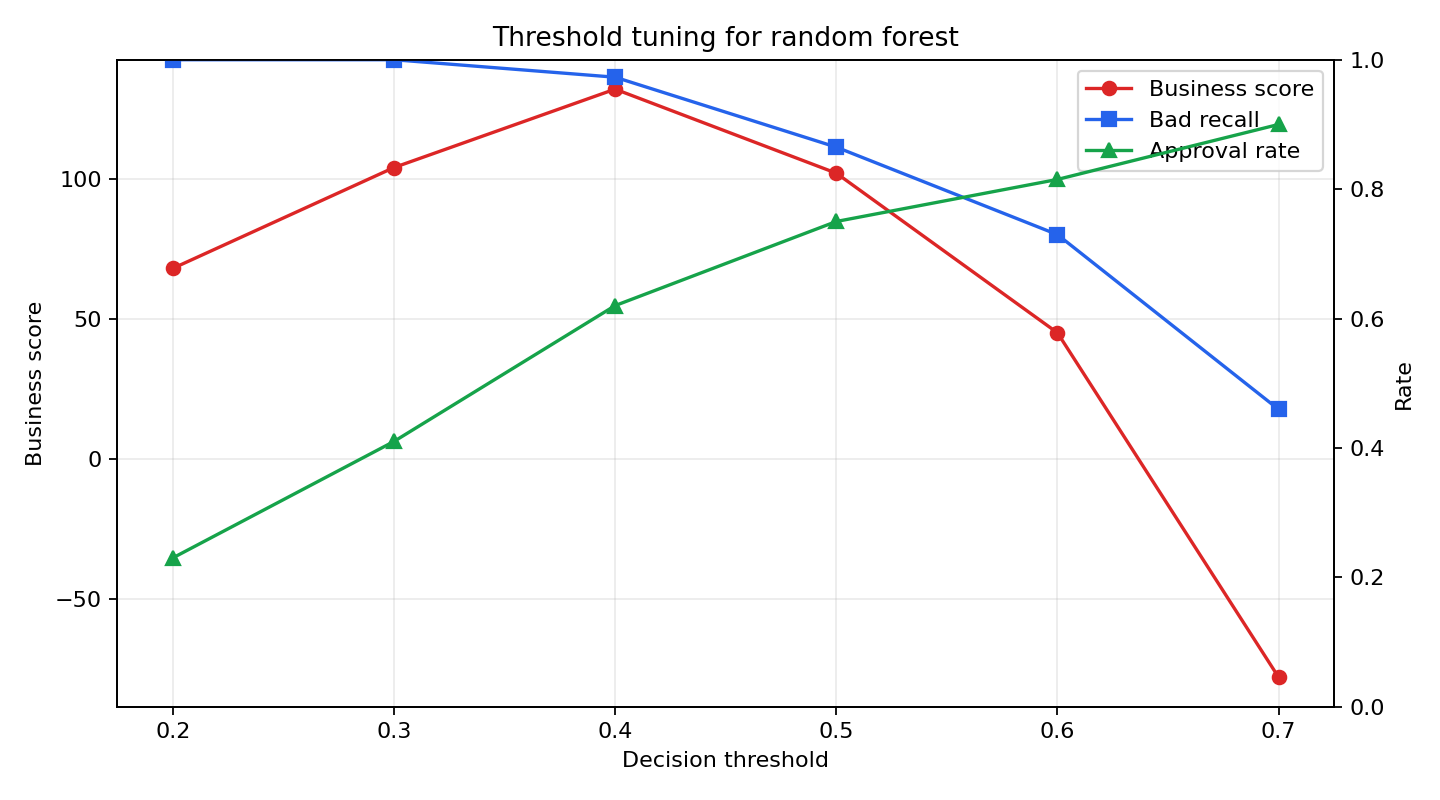
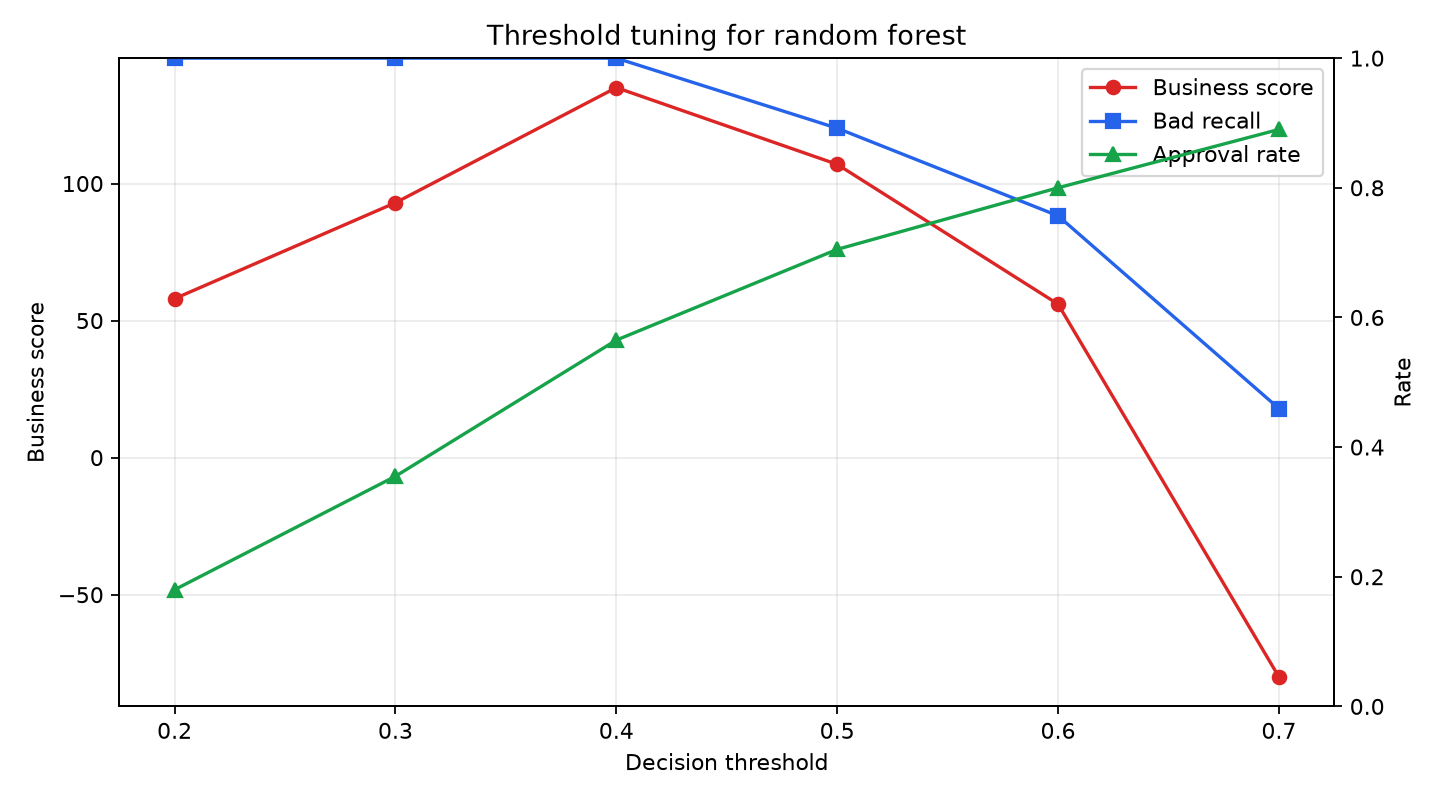
update

diff --git a/frontend/index.html b/frontend/index.html
@@ -1,9 +1,9 @@
 <!doctype html>
-<html lang="en">
+<html lang="vi">
   <head>
     <meta charset="utf-8" />
     <meta name="viewport" content="width=device-width, initial-scale=1" />
-    <title>Credit Scoring Demo</title>
+    <title>Demo Ch&#7845;m &#272;i&#7875;m T&#237;n D&#7909;ng</title>
     <style>
       body {
         margin: 0;
@@ -92,95 +92,126 @@
   </head>
   <body>
     <main class="wrap">
-      <h1>Credit Scoring Demo</h1>
-      <p class="muted">Estimate credit default risk and show a lending recommendation.</p>
+      <h1>Demo Ch&#7845;m &#272;i&#7875;m T&#237;n D&#7909;ng</h1>
+      <p class="muted">&#431;&#7899;c t&#237;nh r&#7911;i ro v&#7905; n&#7907; v&#224; &#273;&#432;a ra khuy&#7871;n ngh&#7883; cho h&#7891; s&#417; vay.</p>
 
       <div class="grid">
         <section>
-          <h2>Application</h2>
+          <h2>Th&#244;ng tin h&#7891; s&#417; vay</h2>
           <form id="form">
-            <label>Checking account
-              <select name="Tài khoản vãng lai (USD)">
-                <option>Không có</option>
+            <label>T&#224;i kho&#7843;n v&#227;ng lai
+              <select name="checking_account">
+                <option>Kh&#244;ng c&#243;</option>
                 <option>&lt;0</option>
                 <option>0-120</option>
                 <option>&gt;120</option>
               </select>
             </label>
-            <label>Duration months
-              <input name="Thời hạn vay (tháng)" type="number" min="1" max="120" value="24" />
+            <label>Th&#7901;i h&#7841;n vay (th&#225;ng)
+              <input name="duration_months" type="number" min="1" max="120" value="24" />
             </label>
-            <label>Credit history
-              <select name="Lịch sử tín dụng">
-                <option>Đang vay của NH khác</option>
-                <option>Đúng hạn tới hiện tại</option>
-                <option>Không có</option>
+            <label>L&#7883;ch s&#7917; t&#237;n d&#7909;ng
+              <select name="credit_history">
+                <option>&#272;ang vay c&#7911;a NH kh&#225;c</option>
+                <option>Kh&#244;ng c&#243;</option>
+                <option>&#272;&#250;ng h&#7841;n t&#7899;i hi&#7879;n t&#7841;i</option>
+                <option>N&#7907; qu&#225; h&#7841;n</option>
+                <option>Tr&#7843; &#273;&#250;ng h&#7841;n</option>
               </select>
             </label>
-            <label>Loan purpose
-              <select name="Mục đích vay">
+            <label>M&#7909;c &#273;&#237;ch vay
+              <select name="loan_purpose">
                 <option>Kinh doanh</option>
-                <option>Mua xe mới</option>
-                <option>Mua tbi âm thanh/hình ảnh</option>
+                <option>Mua tbi &#226;m thanh/h&#236;nh &#7843;nh</option>
+                <option>Mua xe m&#7899;i</option>
+                <option>S&#7917;a ch&#7919;a nh&#224; c&#7917;a</option>
+                <option>Mua n&#7897;i th&#7845;t</option>
+                <option>&#272;&#224;o t&#7841;o l&#7841;i</option>
+                <option>Mua &#273;&#7891; gia d&#7909;ng</option>
+                <option>Mua xe qua sd</option>
+                <option>Gi&#225;o d&#7909;c</option>
+                <option>Kh&#225;c</option>
               </select>
             </label>
-            <label>Savings account
-              <select name="Tài khoản tiết kiệm (USD)">
-                <option>Ít</option>
-                <option>Không có</option>
-                <option>Trung bình</option>
+            <label>T&#224;i kho&#7843;n ti&#7871;t ki&#7879;m
+              <select name="savings_account">
+                <option>&#205;t</option>
+                <option>Kh&#244;ng c&#243;</option>
+                <option>Trung b&#236;nh</option>
+                <option>Kh&#225;</option>
                 <option>Cao</option>
               </select>
             </label>
-            <label>Experience
-              <select name="Số năm kinh nghiệm">
-                <option>&lt;1 năm</option>
-                <option>1-3 năm</option>
-                <option>4-6 năm</option>
-                <option>&gt;6 năm</option>
+            <label>S&#7889; n&#259;m kinh nghi&#7879;m
+              <select name="experience_years">
+                <option>&lt;1 n&#259;m</option>
+                <option>1-3 n&#259;m</option>
+                <option>4-6 n&#259;m</option>
+                <option>&gt;= 7 n&#259;m</option>
+                <option>Th&#7845;t nghi&#7879;p</option>
               </select>
             </label>
-            <label>Gender
-              <select name="Giới tính">
+            <label>Gi&#7899;i t&#237;nh
+              <select name="gender">
                 <option>Nam</option>
-                <option>Nữ</option>
+                <option>N&#7919;</option>
               </select>
             </label>
-            <label>Age
-              <select name="Tuổi">
+            <label>Tu&#7893;i
+              <select name="age_group">
                 <option>18-35</option>
                 <option>36-45</option>
                 <option>46-60</option>
+                <option>&gt;60</option>
               </select>
             </label>
-            <label>Housing
-              <select name="Tình trạng nhà ở">
-                <option>Nhà sở hữu riêng</option>
-                <option>Nhà thuê</option>
+            <label>T&#236;nh tr&#7841;ng nh&#224; &#7903;
+              <select name="housing">
+                <option>Nh&#224; s&#7903; h&#7919;u ri&#234;ng</option>
+                <option>Nh&#224; thu&#234;</option>
+                <option>Nh&#224; &#7903; mi&#7877;n ph&#237;</option>
               </select>
             </label>
-            <label>Occupation
-              <select name="Nghề nghiệp">
-                <option>Chuyên môn, hành chính</option>
-                <option>Phổ thông, lâu dài</option>
+            <label>Ngh&#7873; nghi&#7879;p
+              <select name="occupation">
+                <option>Chuy&#234;n m&#244;n, h&#224;nh ch&#237;nh</option>
+                <option>Ph&#7893; th&#244;ng, l&#226;u d&#224;i</option>
+                <option>Ph&#7893; th&#244;ng, th&#7901;i v&#7909;</option>
+                <option>Qu&#7843;n l&#253;/T&#7921; kinh doanh/Chuy&#234;n m&#244;n cao</option>
               </select>
             </label>
-            <button type="submit">Predict Risk</button>
+            <button type="submit">D&#7921; &#273;o&#225;n r&#7911;i ro</button>
           </form>
         </section>
 
         <section>
-          <h2>Prediction</h2>
-          <div id="result" class="result muted">Train the model, then submit an application.</div>
+          <h2>K&#7871;t qu&#7843; d&#7921; &#273;o&#225;n</h2>
+          <div id="result" class="result muted">H&#227;y train model, sau &#273;&#243; nh&#7853;p h&#7891; s&#417; vay &#273;&#7875; d&#7921; &#273;o&#225;n.</div>
         </section>
       </div>
     </main>
 
     <script>
+      const fieldNames = {
+        checking_account: "T\u00e0i kho\u1ea3n v\u00e3ng lai (USD)",
+        duration_months: "Th\u1eddi h\u1ea1n vay (th\u00e1ng)",
+        credit_history: "L\u1ecbch s\u1eed t\u00edn d\u1ee5ng",
+        loan_purpose: "M\u1ee5c \u0111\u00edch vay",
+        savings_account: "T\u00e0i kho\u1ea3n ti\u1ebft ki\u1ec7m (USD)",
+        experience_years: "S\u1ed1 n\u0103m kinh nghi\u1ec7m",
+        gender: "Gi\u1edbi t\u00ednh",
+        age_group: "Tu\u1ed5i",
+        housing: "T\u00ecnh tr\u1ea1ng nh\u00e0 \u1edf",
+        occupation: "Ngh\u1ec1 nghi\u1ec7p"
+      };
+
       document.getElementById("form").addEventListener("submit", async (event) => {
         event.preventDefault();
-        const payload = Object.fromEntries(new FormData(event.target).entries());
-        payload["Thời hạn vay (tháng)"] = Number(payload["Thời hạn vay (tháng)"]);
+        const formData = Object.fromEntries(new FormData(event.target).entries());
+        const payload = {};
+        for (const [formKey, apiKey] of Object.entries(fieldNames)) {
+          payload[apiKey] = formKey === "duration_months" ? Number(formData[formKey]) : formData[formKey];
+        }
         const response = await fetch("/predict", {
           method: "POST",
           headers: { "Content-Type": "application/json" },
@@ -188,16 +219,17 @@
         });
         const data = await response.json();
         if (!response.ok) {
-          document.getElementById("result").textContent = data.detail || "Prediction failed";
+          document.getElementById("result").textContent = data.detail || "D\u1ef1 \u0111o\u00e1n th\u1ea5t b\u1ea1i";
           return;
         }
         document.getElementById("result").className = "result";
         document.getElementById("result").innerHTML = `
           <div class="score">${Math.round(data.default_probability * 100)}%</div>
-          <div><strong>Risk band:</strong> ${data.risk_band}</div>
-          <div><strong>Recommendation:</strong> ${data.recommendation}</div>
-          <div><strong>Model:</strong> ${data.model}</div>
-          <div><strong>Top factors:</strong><ul>${data.top_risk_factors.map((item) => `<li>${item}</li>`).join("")}</ul></div>
+          <div><strong>X\u00e1c su\u1ea5t v\u1ee1 n\u1ee3:</strong> ${Math.round(data.default_probability * 100)}%</div>
+          <div><strong>Nh\u00f3m r\u1ee7i ro:</strong> ${data.risk_band}</div>
+          <div><strong>Khuy\u1ebfn ngh\u1ecb:</strong> ${data.recommendation}</div>
+          <div><strong>M\u00f4 h\u00ecnh:</strong> ${data.model}</div>
+          <div><strong>Y\u1ebfu t\u1ed1 r\u1ee7i ro ch\u00ednh:</strong><ul>${data.top_risk_factors.map((item) => `<li>${item}</li>`).join("")}</ul></div>
         `;
       });
     </script>

diff --git a/src/modeling.py b/src/modeling.py
@@ -351,30 +351,30 @@ def predict_risk(input_df: pd.DataFrame, model_path: str | Path = MODEL_PATH) ->
 
 def risk_band(probability: float) -> str:
     if probability >= 0.6:
-        return "High Risk"
+        return "Rủi ro cao"
     if probability >= 0.3:
-        return "Medium Risk"
-    return "Low Risk"
+        return "Rủi ro trung bình"
+    return "Rủi ro thấp"
 
 
 def recommendation_for_band(band: str) -> str:
-    if band == "High Risk":
-        return "Reject or manual review"
-    if band == "Medium Risk":
-        return "Manual review"
-    return "Approve"
+    if band == "Rủi ro cao":
+        return "Từ chối hoặc chuyển thẩm định thủ công"
+    if band == "Rủi ro trung bình":
+        return "Chuyển thẩm định thủ công"
+    return "Có thể phê duyệt"
 
 
 def top_risk_factors(row: dict[str, Any]) -> list[str]:
     factors: list[str] = []
     if row.get("Tài khoản vãng lai (USD)") in {"<0", "Không có"}:
-        factors.append("Low or missing checking account balance")
+        factors.append("Số dư tài khoản vãng lai thấp hoặc không có")
     if row.get("Tài khoản tiết kiệm (USD)") in {"Ít", "Không có"}:
-        factors.append("Low savings account balance")
+        factors.append("Số dư tài khoản tiết kiệm thấp")
     if int(row.get("Thời hạn vay (tháng)", 0)) >= 36:
-        factors.append("Long loan duration")
-    if row.get("Lịch sử tín dụng") in {"Không có", "Chậm trả trước đây"}:
-        factors.append("Weak or missing credit history")
+        factors.append("Thời hạn vay dài")
+    if row.get("Lịch sử tín dụng") in {"Không có", "Nợ quá hạn"}:
+        factors.append("Lịch sử tín dụng yếu hoặc chưa rõ ràng")
     if not factors:
-        factors.append("No major rule-based risk factor detected")
+        factors.append("Chưa phát hiện yếu tố rủi ro lớn theo bộ luật đơn giản")
     return factors[:3]

diff --git a/reports/model_report.md b/reports/model_report.md
@@ -6,9 +6,9 @@
 - Test rows: 200
 - Selected model: `random_forest`
 - Selected decision threshold: `0.4`
-- ROC-AUC: `0.9456`
-- Average Precision: `0.8039`
-- Recall for bad credit customers: `0.9730`
+- ROC-AUC: `0.9461`
+- Average Precision: `0.8121`
+- Recall for bad credit customers: `1.0000`
 
 The selected model is chosen by ranking ROC-AUC plus Average Precision. This balances broad ranking quality with performance on the bad-credit class, which is the minority and higher-risk class.
 
@@ -17,7 +17,7 @@ The selected model is chosen by ranking ROC-AUC plus Average Precision. This bal
 | Model | ROC-AUC | Average Precision | Precision Bad | Recall Bad | F1 Bad | Selected Threshold |
 |---|---:|---:|---:|---:|---:|---:|
 | logistic_regression | 0.8587 | 0.6385 | 0.2917 | 0.9459 | 0.4459 | 0.3 |
-| random_forest (selected) | 0.9456 | 0.8039 | 0.4737 | 0.9730 | 0.6372 | 0.4 |
+| random_forest (selected) | 0.9461 | 0.8121 | 0.4253 | 1.0000 | 0.5968 | 0.4 |
 | gradient_boosting | 0.9252 | 0.7656 | 0.5397 | 0.9189 | 0.6800 | 0.3 |
 
 Interpretation:
@@ -32,23 +32,23 @@ Interpretation:
 
 | Threshold | Bad Recall | Approval Rate | False Approve Bad | False Reject Good | Business Score |
 |---:|---:|---:|---:|---:|---:|
-| 0.2 | 1.0000 | 0.2300 | 0 | 117 | 68.0 |
-| 0.3 | 1.0000 | 0.4100 | 0 | 81 | 104.0 |
-| 0.4 | 0.9730 | 0.6200 | 1 | 40 | 132.0 |
-| 0.5 | 0.8649 | 0.7500 | 5 | 18 | 102.0 |
-| 0.6 | 0.7297 | 0.8150 | 10 | 10 | 45.0 |
-| 0.7 | 0.4595 | 0.9000 | 20 | 3 | -78.0 |
+| 0.2 | 1.0000 | 0.1800 | 0 | 127 | 58.0 |
+| 0.3 | 1.0000 | 0.3550 | 0 | 92 | 93.0 |
+| 0.4 | 1.0000 | 0.5650 | 0 | 50 | 135.0 |
+| 0.5 | 0.8919 | 0.7050 | 4 | 26 | 107.0 |
+| 0.6 | 0.7568 | 0.8000 | 9 | 12 | 56.0 |
+| 0.7 | 0.4595 | 0.8900 | 20 | 5 | -80.0 |
 
 The final threshold is selected by the highest business score in the threshold table. In this project, missing a bad customer is treated as more costly than rejecting a good customer, so the selected threshold favors catching bad-credit customers even if some good customers are sent to review or rejected.
 
-At threshold `0.4`, the selected model reaches bad-customer recall of `0.9730` and an approval rate of `0.6200`.
+At threshold `0.4`, the selected model reaches bad-customer recall of `1.0000` and an approval rate of `0.5650`.
 
 ## Confusion Matrix Explanation
 
 | Actual / Predicted | Predicted Good | Predicted Bad |
 |---|---:|---:|
-| Actual Good | 123 | 40 |
-| Actual Bad | 1 | 36 |
+| Actual Good | 113 | 50 |
+| Actual Bad | 0 | 37 |
 
 - Actual Good / Predicted Good: good customers correctly approved.
 - Actual Good / Predicted Bad: good customers incorrectly rejected or sent to manual review.